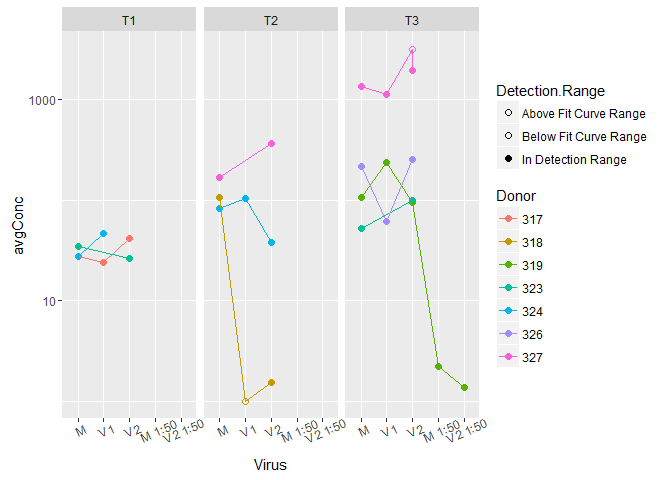
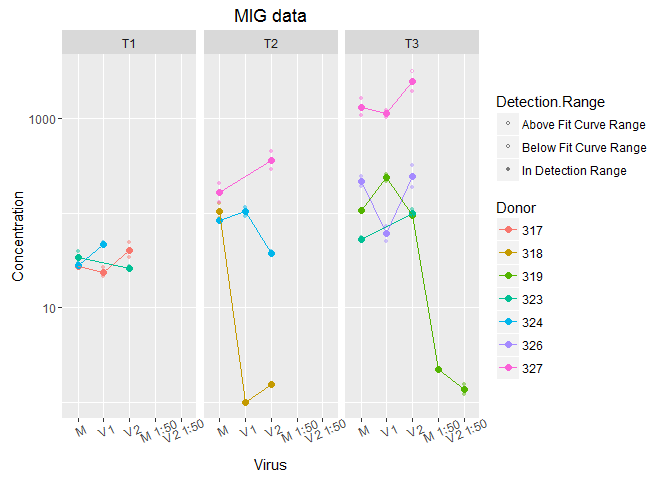
Added plot titles, fixed inline code

diff --git a/30June16_plate_3_explant_sup.md b/30June16_plate_3_explant_sup.md
@@ -11,104 +11,76 @@ Plate 3: 96 well 4 spot prototype Human Triplex
     MIG (CXCL9)
     RANTES (CCL5)
 
-The MSD machine gives the data in an excel or text format. I have .csv file with the results.
+Of the 48 standards that we measured, 37 are in the detection range. The following standards were out of the detection range:
 
-Of the 26 standards that we measured, 26 are in the detection range. The following standards were out of the detection range:
-
-<table style="width:85%;">
+<table style="width:53%;">
 <colgroup>
 <col width="12%" />
-<col width="12%" />
 <col width="11%" />
-<col width="30%" />
-<col width="18%" />
+<col width="29%" />
 </colgroup>
 <thead>
 <tr class="header">
-<th align="center">Type</th>
 <th align="center">Sample</th>
 <th align="center">Assay</th>
 <th align="center">Detection.Range</th>
-<th align="center">X..Recovery</th>
 </tr>
 </thead>
 <tbody>
 <tr class="odd">
-<td align="center">Standard</td>
 <td align="center">STD-01</td>
 <td align="center">IL1-RA</td>
 <td align="center">Above Fit Curve Range</td>
-<td align="center">103.3</td>
 </tr>
 <tr class="even">
-<td align="center">Standard</td>
 <td align="center">STD-01</td>
 <td align="center">IL1-RA</td>
 <td align="center">Above Fit Curve Range</td>
-<td align="center">100.8</td>
 </tr>
 <tr class="odd">
-<td align="center">Standard</td>
 <td align="center">STD-08</td>
 <td align="center">IL1-RA</td>
 <td align="center">Below Fit Curve Range</td>
-<td align="center">NA</td>
 </tr>
 <tr class="even">
-<td align="center">Standard</td>
 <td align="center">STD-08</td>
 <td align="center">IL1-RA</td>
 <td align="center">Below Fit Curve Range</td>
-<td align="center">NA</td>
 </tr>
 <tr class="odd">
-<td align="center">Standard</td>
 <td align="center">STD-01</td>
 <td align="center">MIG</td>
 <td align="center">Above Fit Curve Range</td>
-<td align="center">100</td>
 </tr>
 <tr class="even">
-<td align="center">Standard</td>
 <td align="center">STD-08</td>
 <td align="center">MIG</td>
 <td align="center">Below Fit Curve Range</td>
-<td align="center">NA</td>
 </tr>
 <tr class="odd">
-<td align="center">Standard</td>
 <td align="center">STD-08</td>
 <td align="center">MIG</td>
 <td align="center">Below Fit Curve Range</td>
-<td align="center">NA</td>
 </tr>
 <tr class="even">
-<td align="center">Standard</td>
 <td align="center">STD-01</td>
 <td align="center">RANTES</td>
 <td align="center">Above Fit Curve Range</td>
-<td align="center">106.9</td>
 </tr>
 <tr class="odd">
-<td align="center">Standard</td>
 <td align="center">STD-01</td>
 <td align="center">RANTES</td>
 <td align="center">Above Fit Curve Range</td>
-<td align="center">107</td>
 </tr>
 <tr class="even">
-<td align="center">Standard</td>
 <td align="center">STD-08</td>
 <td align="center">RANTES</td>
 <td align="center">Below Fit Curve Range</td>
-<td align="center">NA</td>
 </tr>
 <tr class="odd">
-<td align="center">Standard</td>
 <td align="center">STD-08</td>
 <td align="center">RANTES</td>
 <td align="center">Below Fit Curve Range</td>
-<td align="center">NA</td>
 </tr>
 </tbody>
 </table>
@@ -146,14 +118,8 @@ The R-squared values for goodness-of-fit were good for all assays:
 </tbody>
 </table>
 
-MIG data
-
 ![](30June16_plate_3_explant_sup_files/figure-markdown_github/MIG-1.png)
 
-RANTES data
-
 ![](30June16_plate_3_explant_sup_files/figure-markdown_github/RANTES-1.png)
-
-IL1-RA data
 
 ![](30June16_plate_3_explant_sup_files/figure-markdown_github/IL1-ra-1.png)
